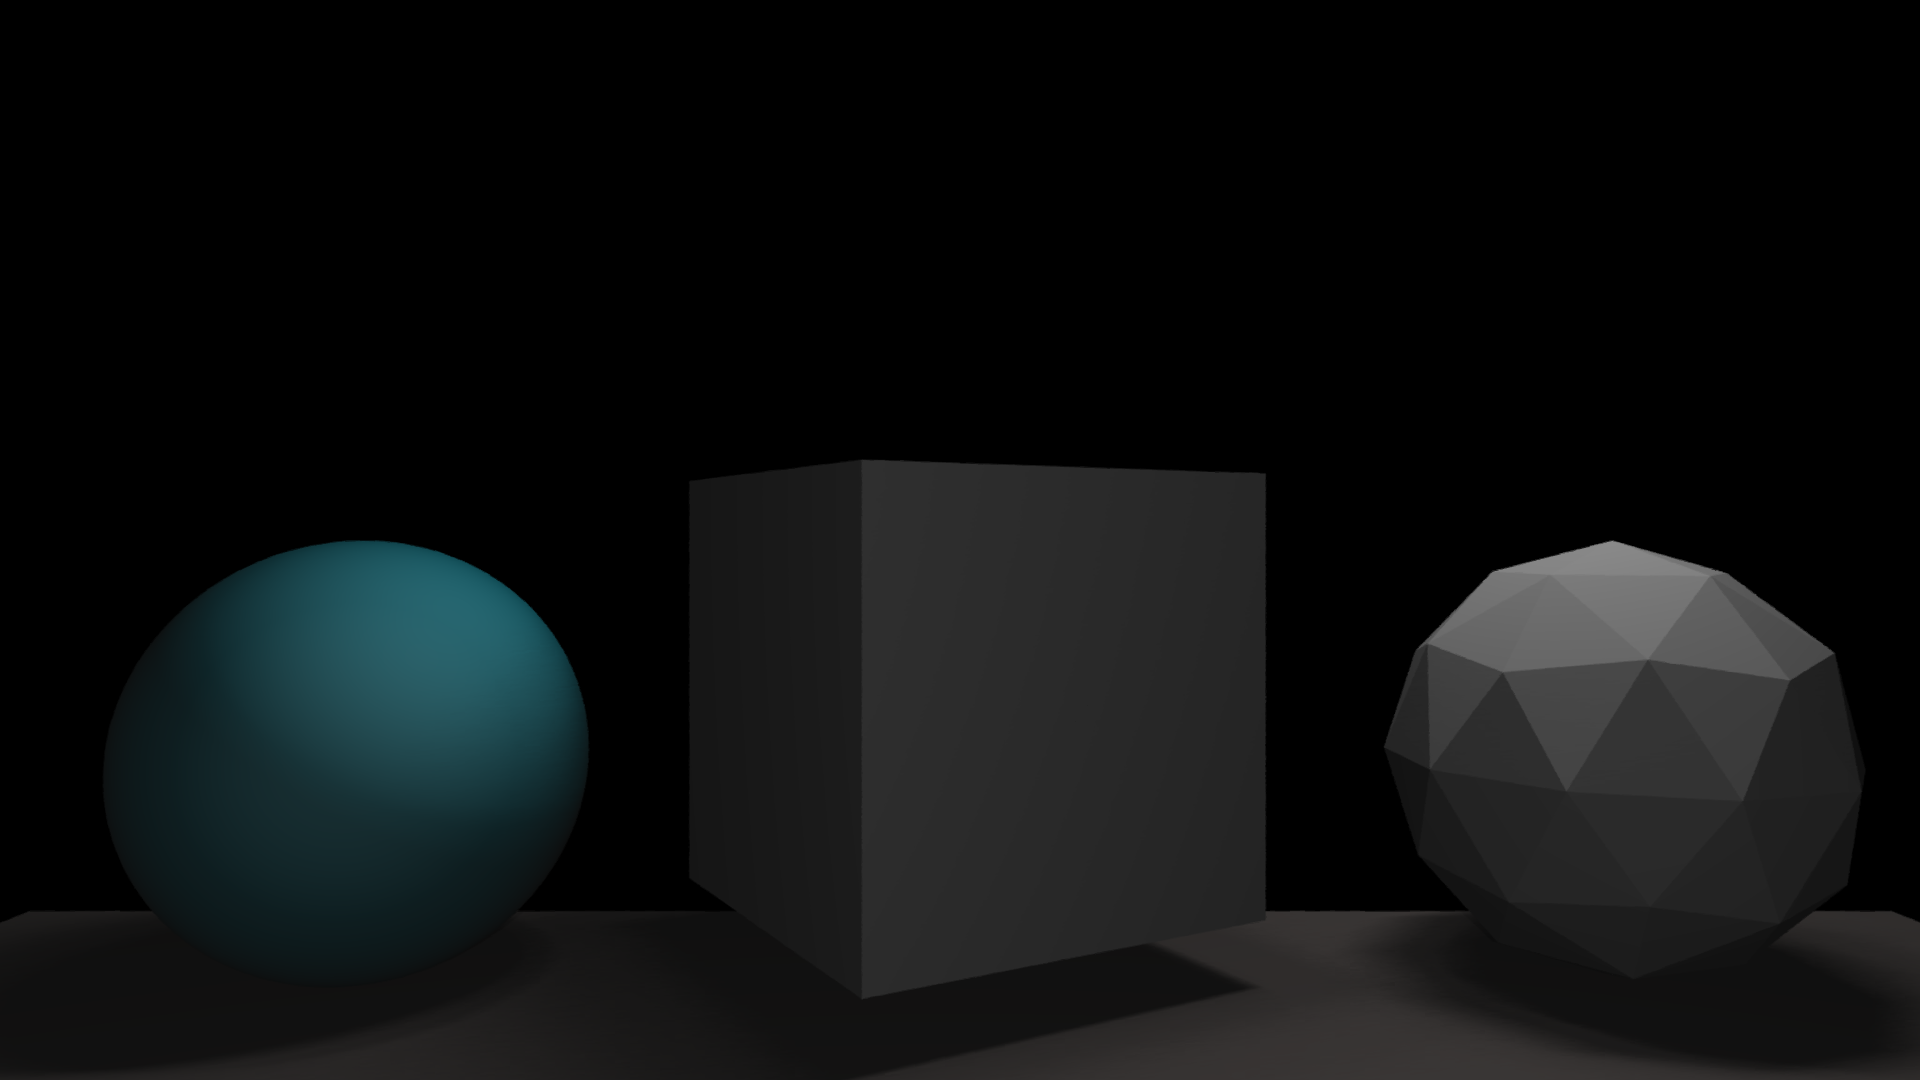
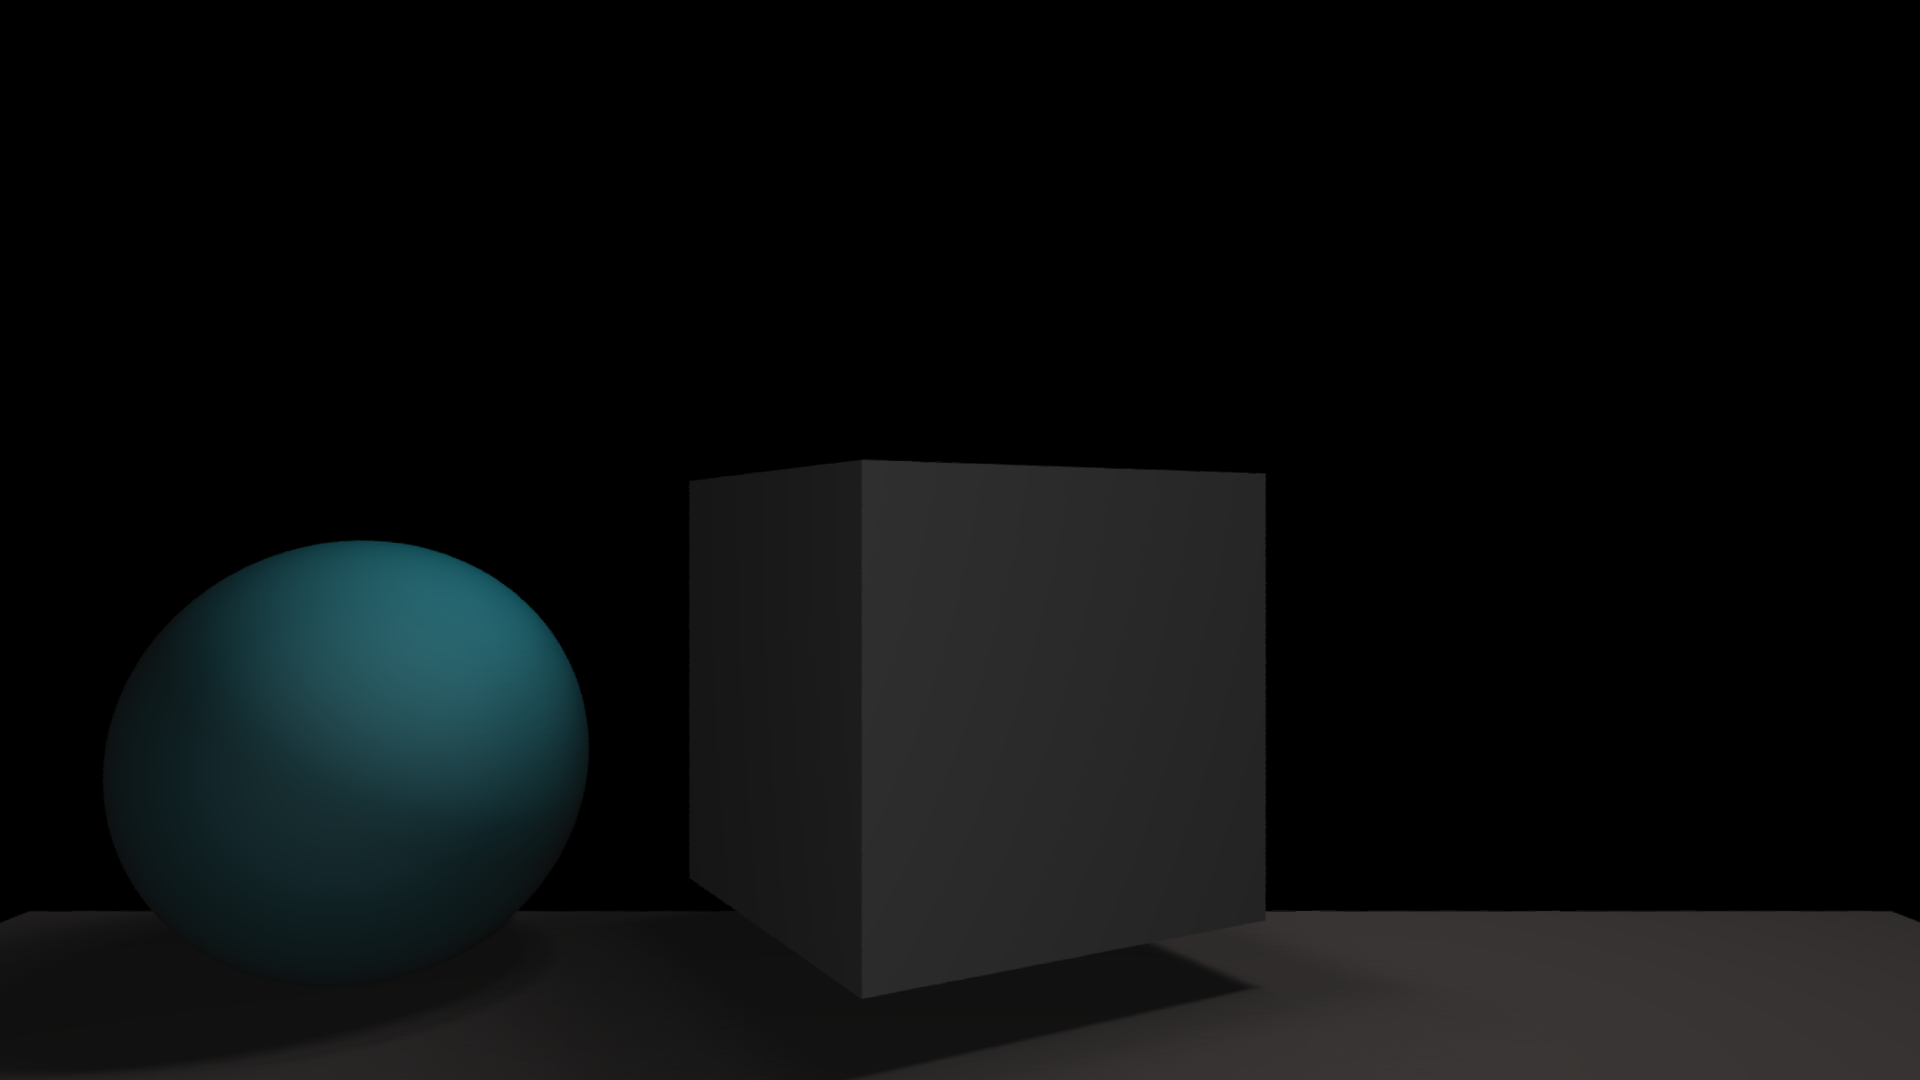
General cleanup of build process. Fixed CMakeLists.txt to support CUDA build. Moved header files to src directory.

Changed region(s): [[0.7188, 0.4889, 1.0, 1.0]]

diff --git a/src/Renderer.cpp b/src/Renderer.cpp
@@ -29,34 +29,55 @@ Renderer::Renderer(Scene* s, Image* i, Camera* cam)
 	std::string exception_height = os_height.str();
 
 	bool dimensionsFound = false;
-
+	//find block and kernel dimensions such that most of the image can be divided into blocks of some multiple of 32 threads
 	while (!dimensionsFound)
 	{
-		while (image->width % NUM_BLOCKS_X != 0)
+		//simple case: can divide image into blocks where MP can use 32 threads per instruction
+		if ((image->width * image->height) % 32 == 0 || true)
 		{
-			NUM_BLOCKS_X++;
-			if (NUM_BLOCKS_X >= MAX_BLOCKS)
+			//now find dimensions
+			while (image->width % NUM_BLOCKS_X != 0)
 			{
-				throw std::exception(exception_width.c_str());
+				NUM_BLOCKS_X++;
+				if (NUM_BLOCKS_X >= MAX_BLOCKS)
+				{
+					throw std::exception(exception_width.c_str());
+				}
 			}
-		}
 
-		while (image->height % NUM_BLOCKS_Y != 0)
-		{
-			NUM_BLOCKS_Y++;
-			if (NUM_BLOCKS_Y >= MAX_BLOCKS)
+			while (image->height % NUM_BLOCKS_Y != 0)
 			{
-				throw std::exception(exception_width.c_str());
+				NUM_BLOCKS_Y++;
+				if (NUM_BLOCKS_Y >= MAX_BLOCKS)
+				{
+					throw std::exception(exception_width.c_str());
+				}
+			}
+
+			BLOCK_DIM_X = image->width / NUM_BLOCKS_X;
+			BLOCK_DIM_Y = image->height / NUM_BLOCKS_Y;
+			if (BLOCK_DIM_X * BLOCK_DIM_Y <= MAX_THREADS_PER_BLOCK)
+			{
+				if ((BLOCK_DIM_X * BLOCK_DIM_Y) % 32 == 0 || true)
+				{
+					dimensionsFound = true;
+				}
+				else
+				{
+					NUM_BLOCKS_X++;
+				}
+			}
+			else
+			{
+				NUM_BLOCKS_X++;
+				NUM_BLOCKS_Y++;
 			}
 		}
-		BLOCK_DIM_X = image->width / NUM_BLOCKS_X;
-		BLOCK_DIM_Y = image->height / NUM_BLOCKS_Y;
-		if (BLOCK_DIM_X * BLOCK_DIM_Y <= MAX_THREADS_PER_BLOCK)
-			dimensionsFound = true;
 		else
 		{
-			NUM_BLOCKS_X++;
-			NUM_BLOCKS_Y++;
+			//case where image can't be divided into grid of constant size blocks and still have block_size % 32 == 0
+			//decrease greater dimension until it is divisible, leftover will be different sized kernel
+			//TODO
 		}
 	}
 }
@@ -127,6 +148,10 @@ bool Renderer::init()
 	return true;
 }
 
+CUDA_GLOBAL void setup_curand(curandState_t* states, unsigned long seed) {
+	curand_init(seed, threadIdx.x + blockIdx.x * blockDim.x, 0, &states[threadIdx.x + blockIdx.x * blockDim.x]);
+}
+
 CUDA_GLOBAL void render_kernel(Renderer* renderer, curandState_t* states) {
 	//get assigned pixel
 	//for now each thread is 1 pixel
@@ -134,7 +159,6 @@ CUDA_GLOBAL void render_kernel(Renderer* renderer, curandState_t* states) {
 	int pixelY = blockIdx.y * blockDim.y + threadIdx.y;
 
 	//init curand for later use in sampling
-	curand_init(clock64(), blockIdx.x, 0, &states[blockIdx.x * blockDim.x + blockIdx.y]);
 
 	//create primary ray
 	//needs ray*, cuRAND*, camera*, image*
@@ -143,7 +167,7 @@ CUDA_GLOBAL void render_kernel(Renderer* renderer, curandState_t* states) {
 
 	float x, y;
 
-	for (int primarySample = 0; primarySample < samples; ++primarySample)
+	for(int primarySample = 0; primarySample < samples; ++primarySample)
 	{
 		Ray primary;
 		//normalize xdevice_vector
@@ -171,7 +195,8 @@ CUDA_GLOBAL void render_kernel(Renderer* renderer, curandState_t* states) {
 }
 
 #ifdef USE_CUDA
-void Renderer::renderKernel(dim3 kernelDim, dim3 blockDim, curandState_t* states) {
+void Renderer::renderKernel(dim3 kernelDim, dim3 blockDim, curandState_t* states) 
+{
 	render_kernel KERNEL_ARGS2(kernelDim, blockDim) (this, states);
 }
 
@@ -179,6 +204,8 @@ void Renderer::renderKernel(dim3 kernelDim, dim3 blockDim, curandState_t* states
 
 #ifdef USE_CUDA
 void Renderer::renderCuda() {
+	//TODO: Break image into sectors to provide greater kernel size flexibility
+
 	scene->finalizeCUDA();
 	CUDA_CHECK_ERROR(cudaDeviceSynchronize());
 	sceneGpuData = scene->getGpuData();
@@ -186,15 +213,22 @@ void Renderer::renderCuda() {
 	std::cout << "numBlocksX: " << NUM_BLOCKS_X << "\t numBlocksY: " << NUM_BLOCKS_Y << std::endl;
 	std::cout << "blockDimX: " << BLOCK_DIM_X << "\t blockDimY: " << BLOCK_DIM_Y << std::endl;
 
-
-	dim3 blockDim(BLOCK_DIM_X, BLOCK_DIM_Y);
-	dim3 kernelDim(NUM_BLOCKS_X, NUM_BLOCKS_Y);
-
-	//curand
-	CUDA_CHECK_ERROR(cudaMalloc((void**) &this->states, NUM_BLOCKS_X*NUM_BLOCKS_Y * sizeof(curandState_t)));
+	//curand states
+	CUDA_CHECK_ERROR(cudaMalloc((void**) &this->states, NUM_BLOCKS_X * NUM_BLOCKS_Y * sizeof(curandState_t)));
 
 
-	renderKernel(kernelDim, blockDim, this->states);
+	/*//need to copy *this members needed for kernel creation, this is invalid once first kernel starts until it ends
+	auto BLOCK_DIM_X = this->BLOCK_DIM_X;
+	auto BLOCK_DIM_Y = this->BLOCK_DIM_Y / 4;
+	auto NUM_BLOCKS_X = this->NUM_BLOCKS_X;
+	auto NUM_BLOCKS_Y = this->NUM_BLOCKS_Y;
+	auto states = this->states;*/
+
+	dim3 blockDim(BLOCK_DIM_X, BLOCK_DIM_Y, 1);
+	dim3 kernelDim(NUM_BLOCKS_X, NUM_BLOCKS_Y, 1);
+	setup_curand KERNEL_ARGS2(kernelDim, blockDim) (states, clock());
+	CUDA_CHECK_ERROR(cudaDeviceSynchronize());
+	renderKernel(kernelDim, blockDim, states);
 	CUDA_CHECK_ERROR(cudaDeviceSynchronize());
 
 	CUDA_CHECK_ERROR(cudaFree(this->states));

diff --git a/src/main.cpp b/src/main.cpp
@@ -6,21 +6,20 @@
 #include <iostream>
 #include "Core.h"
 #include <stdlib.h>
-#include "helper/array.h"
+#include "helper/resource_helper.h"
 #include "CudaLoader.h"
 
-///In current setup it will render CUDA_test2.png///
 int main() {
 	//TODO: Determine register limit for render_kernel to balance occupancy and register usage
-	Logger::enabled = true;
-	Logger::title = "NO_REG_LIMIT";
+	Logger::enabled = false;
+	Logger::title = "DIV 32";
 
 	//temporary hard-coded values to ensure we don't run out of memory
 	//TODO: dynamically determine space needed
-	size_t stackSize = 2e4; //20kb stack size
+	size_t stackSize = 10000; //10kb stack size
 	size_t heapSize = 4e7;
 	cudaDeviceSetLimit(cudaLimitStackSize, stackSize);
-	cudaDeviceSetLimit(cudaLimitMallocHeapSize, heapSize);
+	//cudaDeviceSetLimit(cudaLimitMallocHeapSize, heapSize);
 	size_t sSize;
 	size_t hSize;
 	cudaDeviceGetLimit(&sSize, cudaLimitStackSize);
@@ -28,9 +27,8 @@ int main() {
 	std::cout << "Stack Size: " << sSize << ", Heap Size: " << hSize << std::endl;
 
 	//create image and set output path
-	//TODO: Changing image size to diff aspect ratio should add black bars to keep camera AR constant
 	Image* image = new Image(1920, 1080);
-    std::string outputImagePath = "F:\\Projects\\cuda\\raytracer\\docs\\examples\\CUDA_test_perf.png";
+    std::string outputImagePath = get_image_path("CUDA_test4.png");
 
     Camera* camera = new Camera();
 	camera->setPosition(glm::vec3(0, 0, 1));
@@ -103,8 +101,8 @@ int main() {
 	//create list of objects(meshes and materials) from .obj file, and add objects to the scene
 	bool flipNormals = false;
 	Logger::startClock("Load Time");
-	GeometryObj::loadOBJ(cudaLoader, "F:\\Projects\\cuda\\raytracer\\docs\\models\\icosphere.obj", &objectList, glm::vec3(3, -1, -6), flipNormals);
-	GeometryObj::loadOBJ(cudaLoader, "F:\\Projects\\cuda\\raytracer\\docs\\models\\box2.obj", &objectList, glm::vec3(0, -.7, -6.2), flipNormals);
+	//GeometryObj::loadOBJ(cudaLoader, get_obj_path("icosphere.obj"), &objectList, glm::vec3(3, -1, -6), flipNormals);
+	GeometryObj::loadOBJ(cudaLoader, get_obj_path("box2.obj"), &objectList, glm::vec3(0, -.7, -6.2), flipNormals);
 	Logger::record("Load Time");
 
 	for (unsigned int i = 0; i < objectList.size(); ++i)
@@ -132,11 +130,18 @@ int main() {
 
 
 	image->outputPNG(outputImagePath);
-	Logger::printLog(".\\docs\\logs\\Timing_Log_cuda.txt");
+	Logger::printLog(get_log_path("Timing_Log_cuda.txt"));
+
 
 	delete image;
 	delete camera;
 	delete scene;
+
+	//To fix current issue in NVIDIA Visual Profiler
+	CUDA_CHECK_ERROR(cudaDeviceSynchronize());
+	CUDA_CHECK_ERROR(cudaProfilerStop());
+	std::cout << "Done" << std::endl;
+
 	return 0;
 }
 

diff --git a/src/CudaDef.h b/src/CudaDef.h
@@ -15,6 +15,7 @@
 #include <cuda.h>
 #include <cuda_runtime.h>
 #include <host_defines.h>
+#include <cuda_profiler_api.h>
 #include <device_launch_parameters.h>
 #include <intrin.h>
 #endif
@@ -73,10 +74,24 @@ static inline void cudaErrorCheck(cudaError_t error, const char* file, unsigned 
 	#define CUDA_GLOBAL
 #endif
 
-#if defined(USE_CUDA)
-	#define KERNEL_ARGS2(kernel_dim, block_dim) <<< kernel_dim, block_dim >>>
+
+#if defined(USE_CUDA) && defined(__CUDACC__)
+#define CUDA_LAUNCH_BOUNDS(max_reg_usage, min_block_size) __launch_bounds__(max_reg_usage, min_block_size)
+#else
+#define CUDA_LAUNCH_BOUNDS(max_reg_usage, min_block_size)
+#endif
+
+
+#if defined(USE_CUDA) && defined(__CUDACC__)
+#define KERNEL_ARGS2(kernel_dim, block_dim) <<< kernel_dim, block_dim >>>
 #else
 	#define KERNEL_ARGS2(kernel_dim, block_dim)
+#endif
+
+#if defined(USE_CUDA) && defined(__CUDACC__)
+#define KERNEL_ARGS4(kernel_dim, block_dim, shared_mem, stream) <<< kernel_dim, block_dim, shared_mem, stream >>>
+#else
+#define KERNEL_ARGS4(kernel_dim, block_dim)
 #endif
 
 #endif

diff --git a/src/CudaLoader.cpp b/src/CudaLoader.cpp
@@ -266,7 +266,11 @@ void CudaLoader::loadShapePointers()
 
 	CUDA_CHECK_ERROR(cudaDeviceSynchronize());
 
-
+	for(auto it = shapeParamList.begin(); it != shapeParamList.end(); ++it)
+	{
+		delete *it;
+	}
+	shapeParamList.clear();
 
 	shapePointersLoaded = true;
 #endif
@@ -329,6 +333,8 @@ void CudaLoader::loadData(std::vector<std::unique_ptr<GeometryObj>>& geometryObj
 	data_loader KERNEL_ARGS2(1, 1)(d_objectList, objectList.size(), d_gpuDataList);
 
 	CUDA_CHECK_ERROR(cudaDeviceSynchronize());
+
+
 
 #else
 	//if not using cuda we can load data to triangle objects and initialize acceleration structure on host

diff --git a/src/helper/resource_helper.h b/src/helper/resource_helper.h
@@ -1,0 +1,24 @@
+#pragma once
+#include <string>
+#include "RaytracerConfig.h"
+
+//utility functions to evaluate paths using cmake defined variables
+
+inline std::string get_obj_path(std::string&& p_obj_name) {
+	std::string s = MESH_DIR;
+	s += '/' + p_obj_name;
+	std::cout << s << std::endl;
+	return s;
+}
+
+inline std::string get_image_path(std::string&& p_image_name) {
+	std::string s = IMAGE_OUTPUT_DIR;
+	s += '/' + p_image_name;
+	return s;
+}
+
+inline std::string get_log_path(std::string&& p_log_name) {
+	std::string s = LOGS_DIR;
+	s += '/' + p_log_name;
+	return s;
+}

diff --git a/src/Scene.h b/src/Scene.h
@@ -159,7 +159,7 @@ public:
 		//also uses stratified random sampling (like with the area lights) within each pixel
 		//average color of the primary rays to get final color of the pixel
 	//static const int host variable (and float if not on windows) can be accessed directly by device
-	static const int PRIMARY_SAMPLES = 16;
+	static const int PRIMARY_SAMPLES = 4;
 
 
 

diff --git a/src/Renderer.h b/src/Renderer.h
@@ -67,7 +67,10 @@ public:
 	const int DEFAULT_NUM_BLOCKS = 8;
 	const int MAX_BLOCKS = 1024;
 
+	bool extraBlock;
+
 	//determined through profiling (max_registers_per_block / registers_per_thread)
-	const int MAX_THREADS_PER_BLOCK = 200;
+	#define MAX_THREADS_PER_BLOCK 640
+	#define MIN_BLOCKS_PER_MULTIPROCESSOR 1
 };
 

diff --git a/src/Texture.h b/src/Texture.h
@@ -12,9 +12,7 @@ class Texture : public Managed
 public:
 	Texture();
 	~Texture();
-
-	//Path should not have extra slashes as escape characters
-	//	needs '\' (or '/') not '\\' (or '//')
+	
 	bool loadImage(const std::string& path);
 
 	//uvCoord stores normalized coordinates
